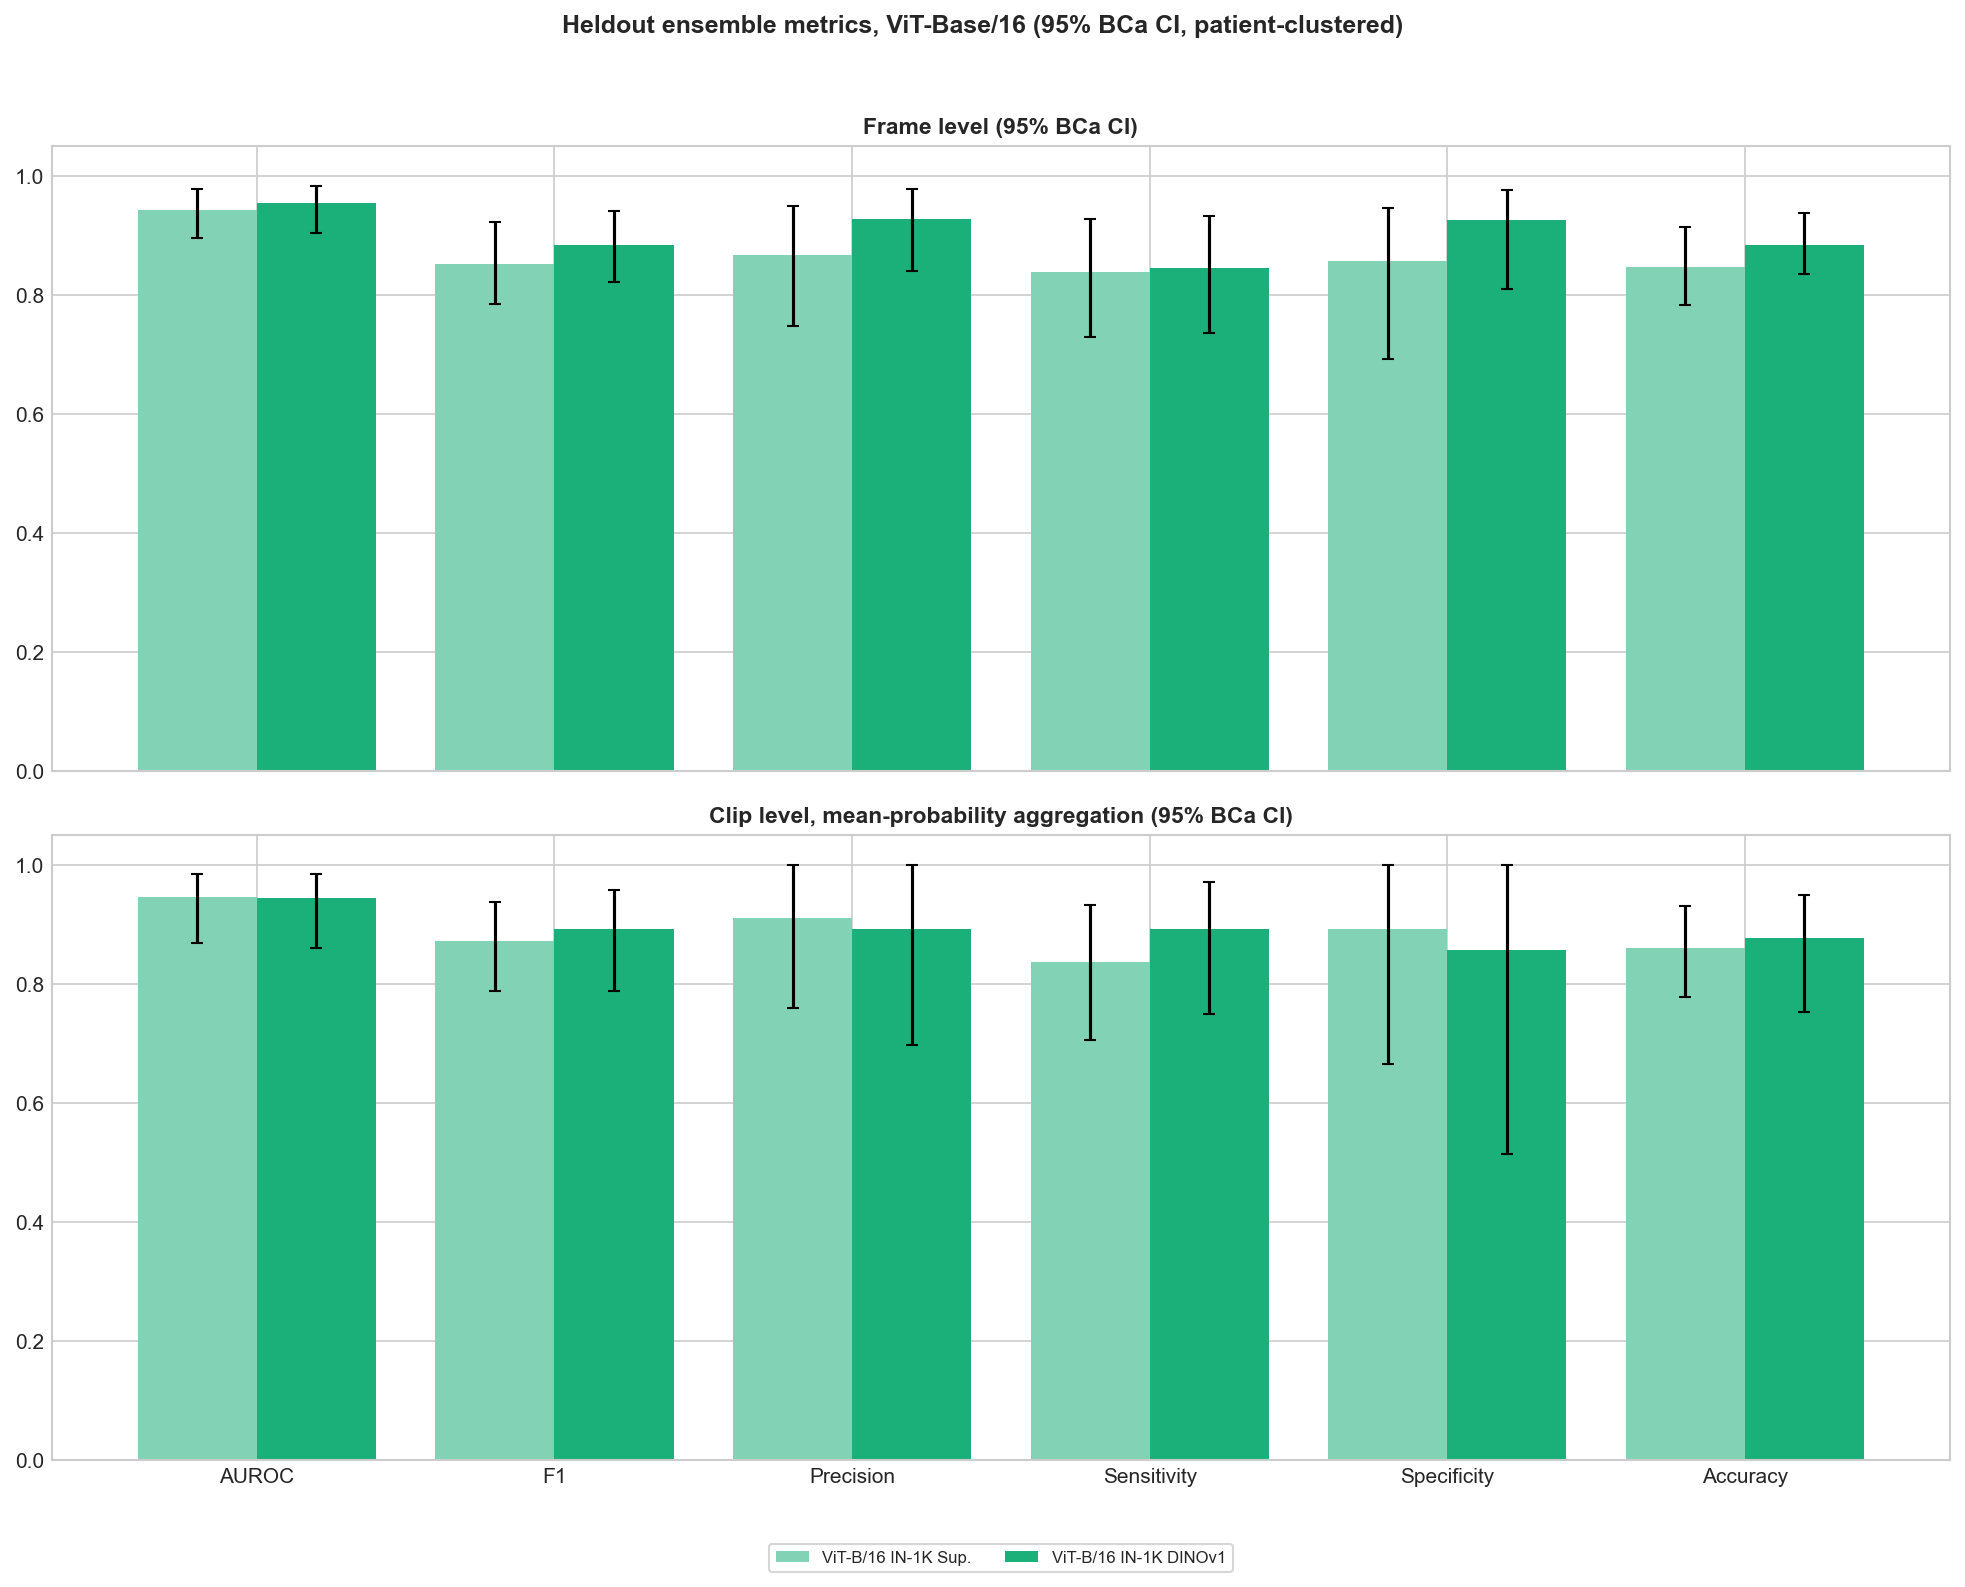
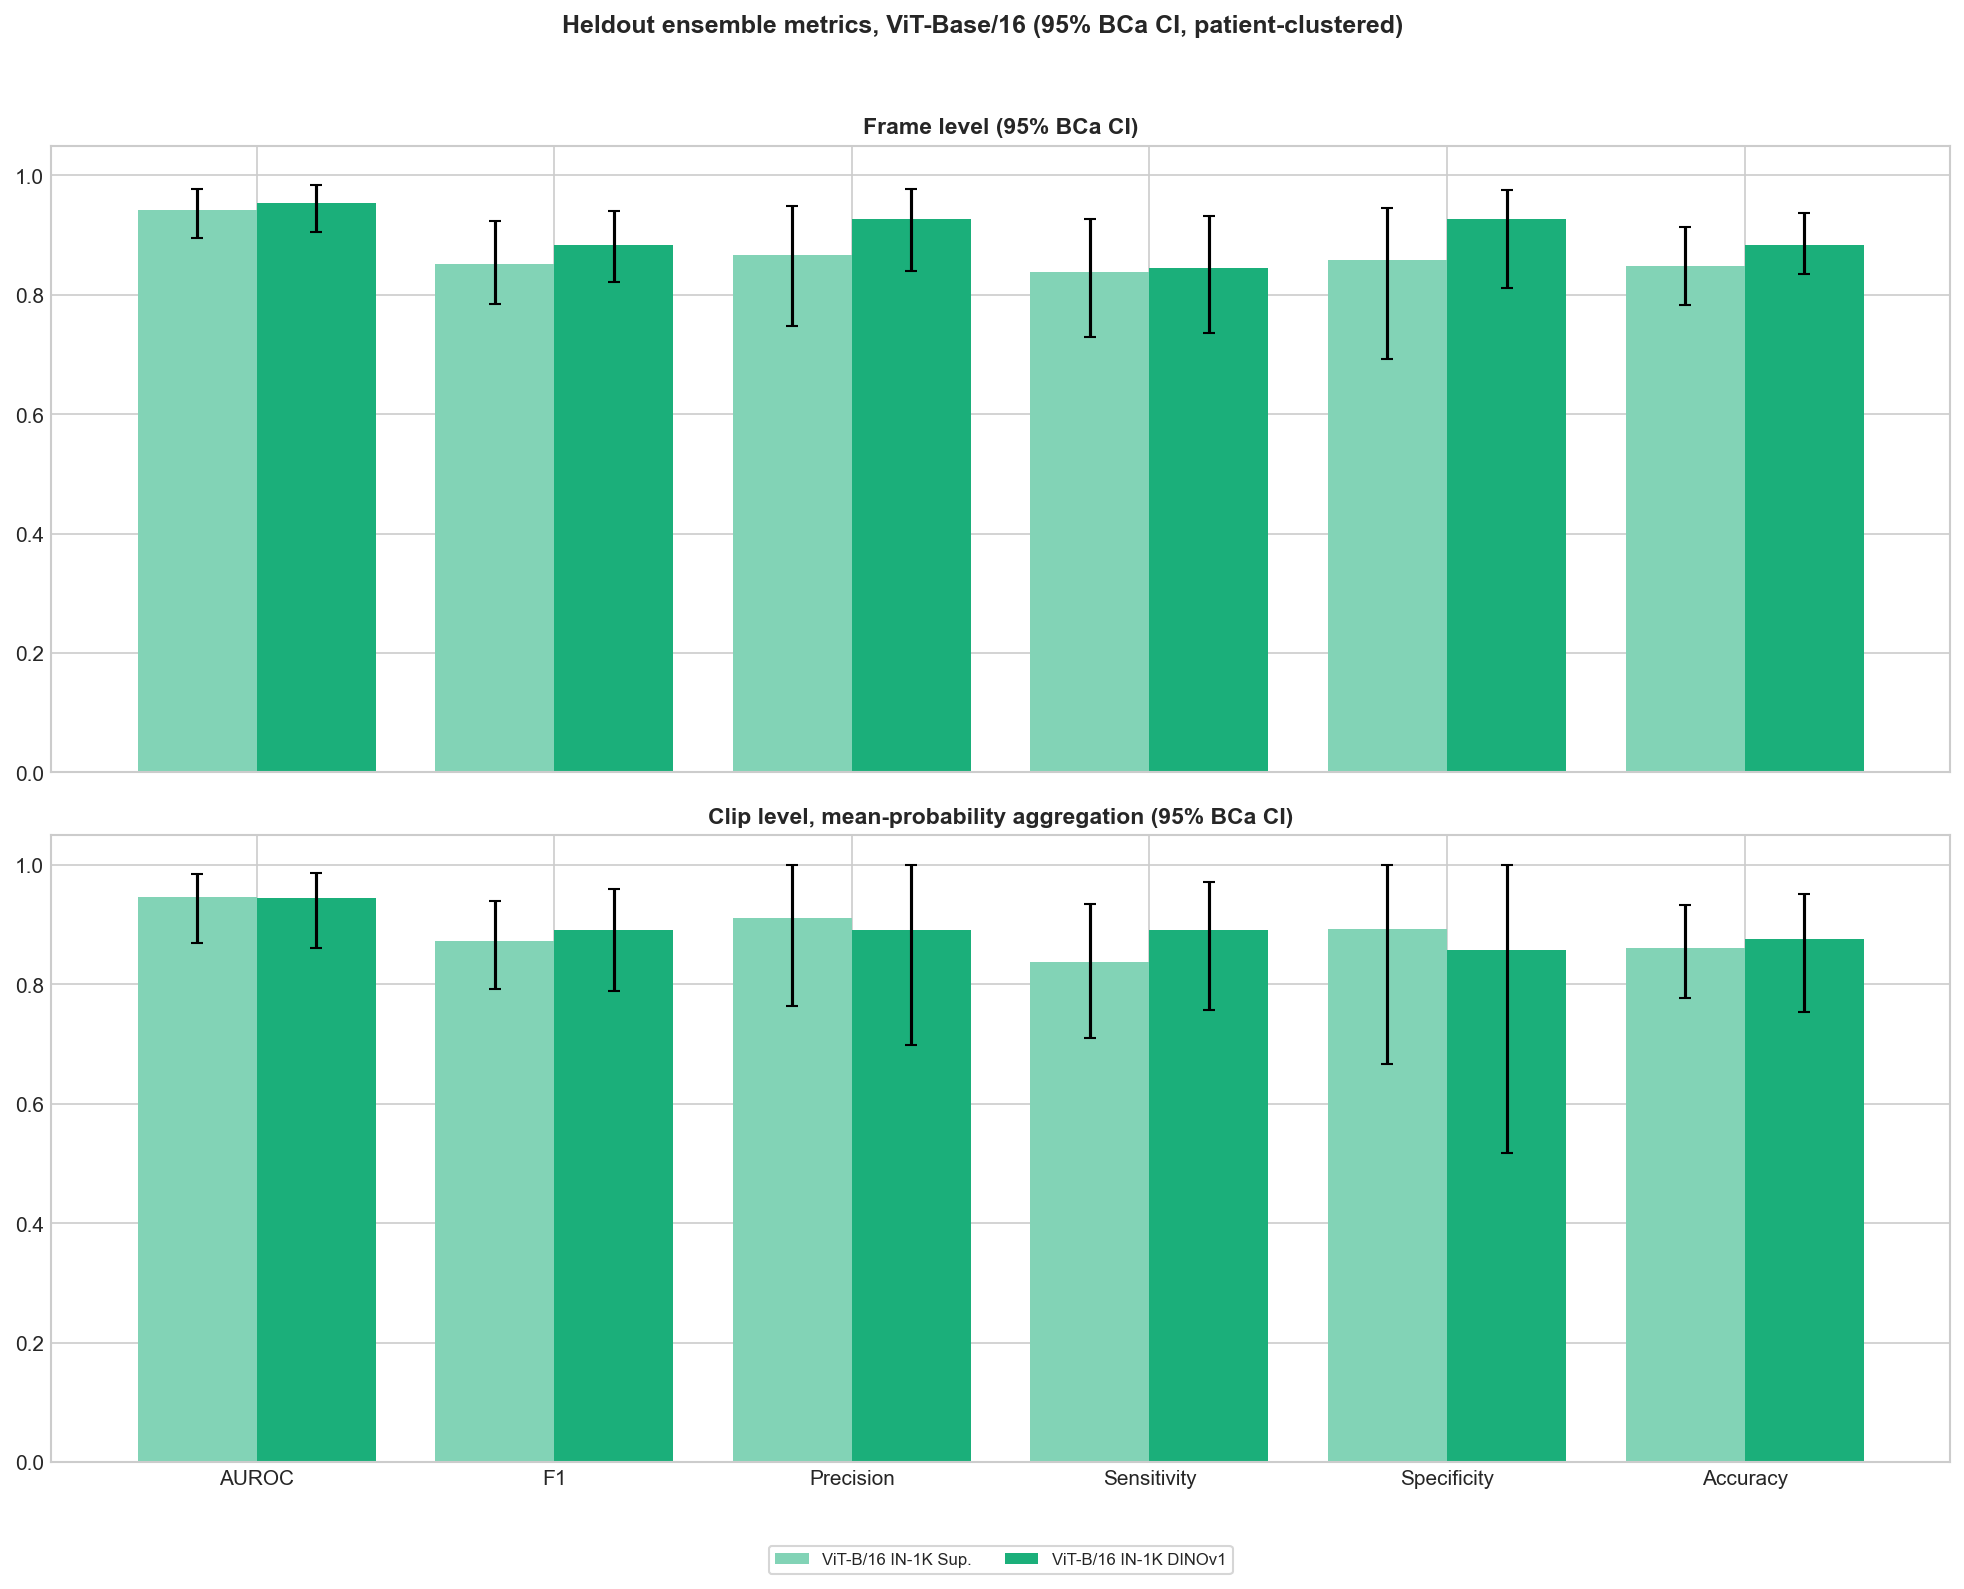
fix : regenerate plots and tables

diff --git a/src/evaluation/heldout_plots.py b/src/evaluation/heldout_plots.py
@@ -458,10 +458,20 @@ def plot_ensemble_roc(
                 "color": config_color(model_key),
             }
         )
-    fig, (ax_frame, ax_clip) = plt.subplots(1, 2, figsize=(15.5, 8.2))
+    fig, (ax_frame, ax_clip) = plt.subplots(1, 2, figsize=(17, 8.5))
     plot_roc_curves(roc_data_frame, title="Frame level", ax=ax_frame)
     plot_roc_curves(roc_data_clip, title="Clip level (mean-probability aggregation)", ax=ax_clip)
-    fig.suptitle("Heldout ensemble ROC curves", fontsize=13, fontweight="bold")
-    fig.tight_layout(rect=(0, 0.17, 1, 0.95))
-    fig.savefig(output_path, dpi=150, bbox_inches="tight")
+    fig.suptitle("Heldout ensemble ROC curves", fontsize=26, fontweight="bold")
+    # Each panel's legend hangs below its axes: kept out of the layout so it does not
+    # shrink the axes, then added back to the saved image's tight bounding box.
+    legends = [ax.get_legend() for ax in (ax_frame, ax_clip)]
+    for legend in legends:
+        legend.set_in_layout(False)
+    fig.tight_layout(rect=(0, 0, 1, 0.95))
+    fig.savefig(
+        output_path,
+        dpi=150,
+        bbox_inches="tight",
+        bbox_extra_artists=fig.get_default_bbox_extra_artists() + legends,
+    )
     plt.close(fig)

diff --git a/results/ulcer/heldout/heldout_ensemble_metrics.md b/results/ulcer/heldout/heldout_ensemble_metrics.md
@@ -1,11 +1,11 @@
 | config | architecture | pretrain_data | pretrain_method | threshold | threshold_frame | best_fold_auroc | auroc | auroc_ci_bca_lower | auroc_ci_bca_upper | auroc_n_bootstrap_dropped | auroc_frame | auroc_frame_ci_bca_lower | auroc_frame_ci_bca_upper | auroc_frame_n_bootstrap_dropped | f1 | f1_ci_bca_lower | f1_ci_bca_upper | f1_n_bootstrap_dropped | f1_frame | f1_frame_ci_bca_lower | f1_frame_ci_bca_upper | f1_frame_n_bootstrap_dropped | precision | precision_ci_bca_lower | precision_ci_bca_upper | precision_n_bootstrap_dropped | precision_frame | precision_frame_ci_bca_lower | precision_frame_ci_bca_upper | precision_frame_n_bootstrap_dropped | sensitivity | sensitivity_ci_bca_lower | sensitivity_ci_bca_upper | sensitivity_n_bootstrap_dropped | sensitivity_frame | sensitivity_frame_ci_bca_lower | sensitivity_frame_ci_bca_upper | sensitivity_frame_n_bootstrap_dropped | specificity | specificity_ci_bca_lower | specificity_ci_bca_upper | specificity_n_bootstrap_dropped | specificity_frame | specificity_frame_ci_bca_lower | specificity_frame_ci_bca_upper | specificity_frame_n_bootstrap_dropped | accuracy | accuracy_ci_bca_lower | accuracy_ci_bca_upper | accuracy_n_bootstrap_dropped | accuracy_frame | accuracy_frame_ci_bca_lower | accuracy_frame_ci_bca_upper | accuracy_frame_n_bootstrap_dropped |
 | --- | --- | --- | --- | --- | --- | --- | --- | --- | --- | --- | --- | --- | --- | --- | --- | --- | --- | --- | --- | --- | --- | --- | --- | --- | --- | --- | --- | --- | --- | --- | --- | --- | --- | --- | --- | --- | --- | --- | --- | --- | --- | --- | --- | --- | --- | --- | --- | --- | --- | --- | --- | --- | --- | --- |
-| resnet50_imagenet_sup | ResNet-50 | ImageNet-1K | Supervised | 0.4 | 0.488 | 0.9141 | 0.9392 | 0.8466 | 0.9871 | 0 | 0.9259 | 0.8464 | 0.9738 | 0 | 0.8571 | 0.7273 | 0.9333 | 0 | 0.8169 | 0.699 | 0.9089 | 0 | 0.9091 | 0.7566 | 1.0 | 0 | 0.9003 | 0.7426 | 0.9842 | 0 | 0.8108 | 0.6 | 0.9302 | 0 | 0.7476 | 0.5722 | 0.8795 | 0 | 0.8929 | 0.6667 | 1.0 | 0 | 0.9087 | 0.7294 | 0.9864 | 0 | 0.8462 | 0.7397 | 0.9296 | 0 | 0.8242 | 0.7356 | 0.9069 | 0 |
-| resnet50_imagenet | ResNet-50 | ImageNet | Self-sup. (DINOv1) | 0.37 | 0.38 | 0.9537 | 0.9402 | 0.8334 | 0.9867 | 0 | 0.9432 | 0.8671 | 0.9825 | 0 | 0.9067 | 0.8 | 0.9697 | 0 | 0.8871 | 0.8115 | 0.9412 | 0 | 0.8947 | 0.7045 | 1.0 | 0 | 0.859 | 0.7271 | 0.9484 | 0 | 0.9189 | 0.7778 | 0.9767 | 0 | 0.9172 | 0.817 | 0.9697 | 0 | 0.8571 | 0.5147 | 1.0 | 0 | 0.8338 | 0.6136 | 0.9413 | 0 | 0.8923 | 0.7654 | 0.9636 | 0 | 0.8776 | 0.7914 | 0.934 | 0 |
-| resnet50_gastronet | ResNet-50 | GastroNet-5M | Self-sup. (DINOv1) | 0.164 | 0.452 | 0.9653 | 0.9681 | 0.9091 | 0.9933 | 0 | 0.9602 | 0.8924 | 0.9893 | 0 | 0.8861 | 0.7816 | 0.9574 | 0 | 0.9166 | 0.8377 | 0.9689 | 0 | 0.8333 | 0.6818 | 0.9394 | 0 | 0.9314 | 0.8013 | 0.9924 | 0 | 0.9459 | 0.8148 | 1.0 | 0 | 0.9023 | 0.7576 | 0.9726 | 0 | 0.75 | 0.4706 | 0.9091 | 0 | 0.9266 | 0.7357 | 0.9917 | 0 | 0.8615 | 0.7308 | 0.9481 | 0 | 0.9139 | 0.8446 | 0.9634 | 0 |
-| efficientnetb0 | EfficientNet-B0 | ImageNet-1K | Supervised | 0.436 | 0.49 | 0.9112 | 0.9305 | 0.8263 | 0.9833 | 0 | 0.9302 | 0.8475 | 0.9765 | 0 | 0.9091 | 0.8047 | 0.9677 | 0 | 0.8608 | 0.7803 | 0.9298 | 0 | 0.875 | 0.7021 | 0.9722 | 0 | 0.8494 | 0.7196 | 0.9366 | 0 | 0.9459 | 0.8098 | 1.0 | 0 | 0.8725 | 0.7285 | 0.9609 | 0 | 0.8214 | 0.5 | 0.9655 | 0 | 0.8293 | 0.6235 | 0.9299 | 0 | 0.8923 | 0.7581 | 0.963 | 0 | 0.852 | 0.7679 | 0.9205 | 0 |
-| vitb16_imagenet_sup | ViT-Base/16 | ImageNet-1K | Supervised | 0.366 | 0.374 | 0.9585 | 0.9469 | 0.8694 | 0.9853 | 0 | 0.9428 | 0.8957 | 0.978 | 0 | 0.8732 | 0.7887 | 0.9383 | 0 | 0.8524 | 0.7852 | 0.923 | 0 | 0.9118 | 0.7603 | 1.0 | 0 | 0.8668 | 0.7472 | 0.9493 | 0 | 0.8378 | 0.7059 | 0.9333 | 0 | 0.8385 | 0.7286 | 0.9278 | 0 | 0.8929 | 0.6667 | 1.0 | 0 | 0.8578 | 0.6931 | 0.9458 | 0 | 0.8615 | 0.7778 | 0.9318 | 0 | 0.8477 | 0.7824 | 0.9144 | 0 |
-| vitb16_imagenet | ViT-Base/16 | ImageNet | Self-sup. (DINOv1) | 0.252 | 0.384 | 0.9546 | 0.945 | 0.8616 | 0.9859 | 0 | 0.9539 | 0.9047 | 0.9836 | 0 | 0.8919 | 0.7879 | 0.9589 | 0 | 0.8843 | 0.8218 | 0.9406 | 0 | 0.8919 | 0.6977 | 1.0 | 0 | 0.9271 | 0.8401 | 0.9775 | 0 | 0.8919 | 0.75 | 0.9714 | 0 | 0.8453 | 0.7359 | 0.9325 | 0 | 0.8571 | 0.5147 | 1.0 | 0 | 0.9266 | 0.8107 | 0.9763 | 0 | 0.8769 | 0.7536 | 0.95 | 0 | 0.884 | 0.8357 | 0.9374 | 0 |
-| vits16_imagenet_hf | ViT-Small/16 | ImageNet-1K | Supervised | 0.204 | 0.262 | 0.9624 | 0.9556 | 0.8804 | 0.9906 | 0 | 0.9561 | 0.9066 | 0.9846 | 0 | 0.8831 | 0.7734 | 0.9556 | 0 | 0.8783 | 0.8033 | 0.9374 | 0 | 0.85 | 0.6808 | 0.9535 | 0 | 0.8568 | 0.7397 | 0.9383 | 0 | 0.9189 | 0.7778 | 0.9767 | 0 | 0.9009 | 0.8019 | 0.9606 | 0 | 0.7857 | 0.48 | 0.9394 | 0 | 0.8338 | 0.6528 | 0.9275 | 0 | 0.8615 | 0.7286 | 0.9474 | 0 | 0.869 | 0.7941 | 0.9283 | 0 |
-| vits16_imagenet | ViT-Small/16 | ImageNet | Self-sup. (DINOv1) | 0.352 | 0.448 | 0.9585 | 0.945 | 0.8609 | 0.9869 | 0 | 0.9524 | 0.9006 | 0.9838 | 0 | 0.8919 | 0.7879 | 0.9589 | 0 | 0.8837 | 0.7983 | 0.9459 | 0 | 0.8919 | 0.6977 | 1.0 | 0 | 0.8966 | 0.7803 | 0.9696 | 0 | 0.8919 | 0.75 | 0.9714 | 0 | 0.8711 | 0.7383 | 0.9483 | 0 | 0.8571 | 0.5147 | 1.0 | 0 | 0.8892 | 0.7355 | 0.9665 | 0 | 0.8769 | 0.7536 | 0.95 | 0 | 0.8797 | 0.8058 | 0.9415 | 0 |
-| vits16_gastronet | ViT-Small/16 | GastroNet-5M | Self-sup. (DINOv1) | 0.18 | 0.26 | 0.9527 | 0.9662 | 0.8945 | 0.9944 | 0 | 0.9678 | 0.9163 | 0.9913 | 0 | 0.9091 | 0.8 | 0.9697 | 0 | 0.9099 | 0.8272 | 0.9635 | 0 | 0.875 | 0.6945 | 0.9737 | 0 | 0.8767 | 0.7323 | 0.9694 | 0 | 0.9459 | 0.8098 | 1.0 | 0 | 0.9457 | 0.8721 | 0.9831 | 0 | 0.8214 | 0.5 | 0.9655 | 0 | 0.8533 | 0.6141 | 0.9668 | 0 | 0.8923 | 0.7574 | 0.9643 | 0 | 0.9018 | 0.8037 | 0.9591 | 0 |
+| resnet50_imagenet_sup | ResNet-50 | ImageNet-1K | Supervised | 0.4 | 0.488 | 0.9141 | 0.9392 | 0.8466 | 0.9871 | 0 | 0.9259 | 0.8464 | 0.9738 | 0 | 0.8571 | 0.7347 | 0.9367 | 0 | 0.8169 | 0.699 | 0.9089 | 0 | 0.9091 | 0.7576 | 1.0 | 0 | 0.9003 | 0.7426 | 0.9842 | 0 | 0.8108 | 0.6 | 0.9318 | 0 | 0.7476 | 0.5722 | 0.8795 | 0 | 0.8929 | 0.6667 | 1.0 | 0 | 0.9087 | 0.7294 | 0.9864 | 0 | 0.8462 | 0.7407 | 0.931 | 0 | 0.8242 | 0.7356 | 0.9069 | 0 |
+| resnet50_imagenet | ResNet-50 | ImageNet | Self-sup. (DINOv1) | 0.37 | 0.38 | 0.9537 | 0.9402 | 0.8334 | 0.9867 | 0 | 0.9432 | 0.8671 | 0.9825 | 0 | 0.9067 | 0.8021 | 0.9706 | 0 | 0.8871 | 0.8115 | 0.9412 | 0 | 0.8947 | 0.7045 | 1.0 | 0 | 0.859 | 0.7272 | 0.9484 | 0 | 0.9189 | 0.7829 | 0.9773 | 0 | 0.9172 | 0.8171 | 0.9697 | 0 | 0.8571 | 0.5185 | 1.0 | 0 | 0.8338 | 0.6137 | 0.9413 | 0 | 0.8923 | 0.7667 | 0.9643 | 0 | 0.8776 | 0.7914 | 0.934 | 0 |
+| resnet50_gastronet | ResNet-50 | GastroNet-5M | Self-sup. (DINOv1) | 0.164 | 0.452 | 0.9653 | 0.9681 | 0.9091 | 0.9933 | 0 | 0.9602 | 0.8924 | 0.9893 | 0 | 0.8861 | 0.7826 | 0.9577 | 0 | 0.9166 | 0.8377 | 0.9689 | 0 | 0.8333 | 0.6833 | 0.9412 | 0 | 0.9314 | 0.8013 | 0.9924 | 0 | 0.9459 | 0.8214 | 1.0 | 0 | 0.9023 | 0.7576 | 0.9727 | 0 | 0.75 | 0.48 | 0.9167 | 0 | 0.9266 | 0.7359 | 0.9917 | 0 | 0.8615 | 0.7321 | 0.9492 | 0 | 0.9139 | 0.8446 | 0.9634 | 0 |
+| efficientnetb0 | EfficientNet-B0 | ImageNet-1K | Supervised | 0.436 | 0.49 | 0.9112 | 0.9305 | 0.8263 | 0.9833 | 0 | 0.9302 | 0.8475 | 0.9765 | 0 | 0.9091 | 0.806 | 0.9697 | 0 | 0.8608 | 0.7803 | 0.9298 | 0 | 0.875 | 0.7037 | 0.973 | 0 | 0.8494 | 0.7196 | 0.9366 | 0 | 0.9459 | 0.8148 | 1.0 | 0 | 0.8725 | 0.7285 | 0.9609 | 0 | 0.8214 | 0.5 | 0.9667 | 0 | 0.8293 | 0.6235 | 0.9299 | 0 | 0.8923 | 0.7582 | 0.9638 | 0 | 0.852 | 0.7679 | 0.9205 | 0 |
+| vitb16_imagenet_sup | ViT-Base/16 | ImageNet-1K | Supervised | 0.366 | 0.374 | 0.9585 | 0.9469 | 0.8694 | 0.9853 | 0 | 0.9428 | 0.8957 | 0.978 | 0 | 0.8732 | 0.7917 | 0.9394 | 0 | 0.8524 | 0.7852 | 0.923 | 0 | 0.9118 | 0.7632 | 1.0 | 0 | 0.8668 | 0.7472 | 0.9493 | 0 | 0.8378 | 0.7097 | 0.9355 | 0 | 0.8385 | 0.7286 | 0.9278 | 0 | 0.8929 | 0.6667 | 1.0 | 0 | 0.8578 | 0.6931 | 0.9458 | 0 | 0.8615 | 0.7778 | 0.9324 | 0 | 0.8477 | 0.7824 | 0.9144 | 0 |
+| vitb16_imagenet | ViT-Base/16 | ImageNet | Self-sup. (DINOv1) | 0.252 | 0.384 | 0.9546 | 0.945 | 0.8616 | 0.9859 | 0 | 0.9539 | 0.9047 | 0.9836 | 0 | 0.8919 | 0.7887 | 0.96 | 0 | 0.8843 | 0.8218 | 0.9406 | 0 | 0.8919 | 0.6982 | 1.0 | 0 | 0.9271 | 0.8401 | 0.9775 | 0 | 0.8919 | 0.7575 | 0.9722 | 0 | 0.8453 | 0.7359 | 0.9325 | 0 | 0.8571 | 0.5185 | 1.0 | 0 | 0.9266 | 0.8107 | 0.9763 | 0 | 0.8769 | 0.7542 | 0.9508 | 0 | 0.884 | 0.8357 | 0.9374 | 0 |
+| vits16_imagenet_hf | ViT-Small/16 | ImageNet-1K | Supervised | 0.204 | 0.262 | 0.9624 | 0.9556 | 0.8804 | 0.9906 | 0 | 0.9561 | 0.9066 | 0.9846 | 0 | 0.8831 | 0.7761 | 0.9565 | 0 | 0.8783 | 0.8033 | 0.9374 | 0 | 0.85 | 0.6829 | 0.9545 | 0 | 0.8568 | 0.7397 | 0.9383 | 0 | 0.9189 | 0.7829 | 0.9773 | 0 | 0.9009 | 0.8019 | 0.9606 | 0 | 0.7857 | 0.4828 | 0.9412 | 0 | 0.8338 | 0.6528 | 0.9275 | 0 | 0.8615 | 0.7288 | 0.9474 | 0 | 0.869 | 0.7941 | 0.9283 | 0 |
+| vits16_imagenet | ViT-Small/16 | ImageNet | Self-sup. (DINOv1) | 0.352 | 0.448 | 0.9585 | 0.945 | 0.8609 | 0.9869 | 0 | 0.9524 | 0.9006 | 0.9838 | 0 | 0.8919 | 0.7887 | 0.96 | 0 | 0.8837 | 0.7983 | 0.9459 | 0 | 0.8919 | 0.6982 | 1.0 | 0 | 0.8966 | 0.7803 | 0.9696 | 0 | 0.8919 | 0.7575 | 0.9722 | 0 | 0.8711 | 0.7383 | 0.9483 | 0 | 0.8571 | 0.5185 | 1.0 | 0 | 0.8892 | 0.7355 | 0.9665 | 0 | 0.8769 | 0.7542 | 0.9508 | 0 | 0.8797 | 0.8058 | 0.9415 | 0 |
+| vits16_gastronet | ViT-Small/16 | GastroNet-5M | Self-sup. (DINOv1) | 0.18 | 0.26 | 0.9527 | 0.9662 | 0.8946 | 0.9944 | 0 | 0.9678 | 0.9163 | 0.9913 | 0 | 0.9091 | 0.8 | 0.9706 | 0 | 0.9099 | 0.8272 | 0.9635 | 0 | 0.875 | 0.6972 | 0.9744 | 0 | 0.8767 | 0.7323 | 0.9694 | 0 | 0.9459 | 0.8148 | 1.0 | 0 | 0.9457 | 0.8721 | 0.9831 | 0 | 0.8214 | 0.5 | 0.9667 | 0 | 0.8533 | 0.6142 | 0.9668 | 0 | 0.8923 | 0.7581 | 0.9649 | 0 | 0.9018 | 0.8037 | 0.9591 | 0 |
